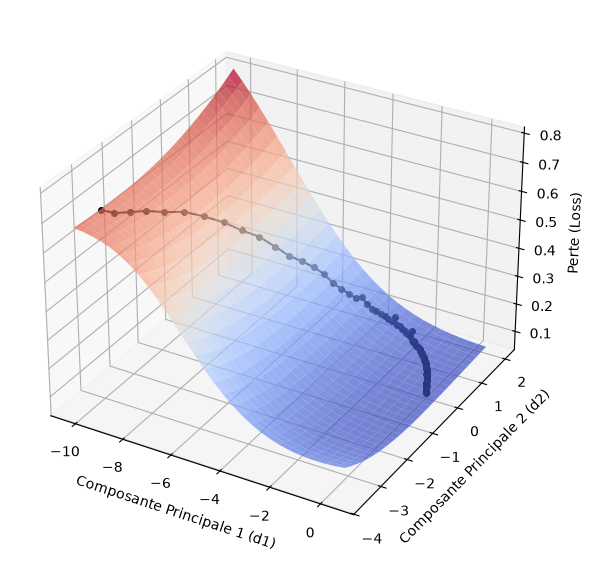
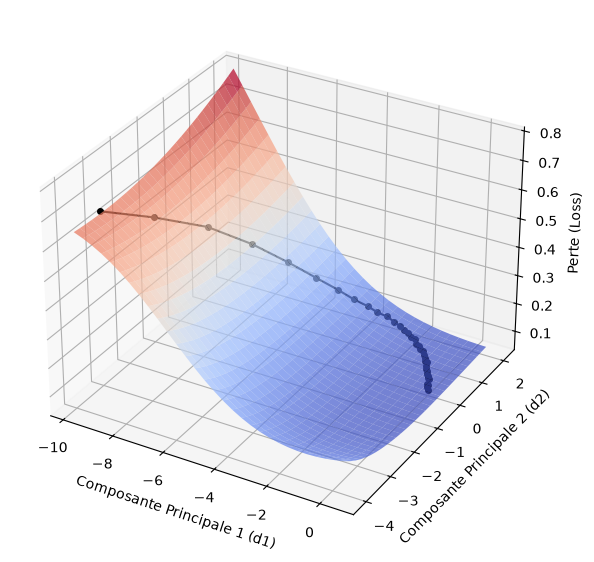
final final

diff --git a/README.md b/README.md
@@ -236,45 +236,77 @@ python3 predict.py path/to/any_dataset.csv
 ### Model Training Execution (`train.py`)
 
 ```text
-$ python3 train.py -o Adam -e 50 -s 10 -lR 0.01
+$ python3 train.py -l 32 16 -o Adam -s
 Successfully loaded data in data/training_data.csv
 Successfully loaded data in data/testing_data.csv
-Epoch 1: Training loss = 0.53218571 | Validation loss = 0.15417870
-Epoch 2: Training loss = 0.12117479 | Validation loss = 0.06284457
-Epoch 3: Training loss = 0.08656392 | Validation loss = 0.09342783
-Epoch 4: Training loss = 0.07894161 | Validation loss = 0.07438113
-Epoch 5: Training loss = 0.07239458 | Validation loss = 0.05860561
-Epoch 6: Training loss = 0.06764356 | Validation loss = 0.05787028
-Epoch 7: Training loss = 0.07538802 | Validation loss = 0.04441908
-Epoch 8: Training loss = 0.07494354 | Validation loss = 0.06011735
-Epoch 9: Training loss = 0.06347635 | Validation loss = 0.25850142
-Epoch 10: Training loss = 0.06515142 | Validation loss = 0.19916024
-Epoch 11: Training loss = 0.06039511 | Validation loss = 0.08689131
-Epoch 12: Training loss = 0.07120848 | Validation loss = 0.04860856
-Epoch 13: Training loss = 0.07917582 | Validation loss = 0.21246300
-Epoch 14: Training loss = 0.07266126 | Validation loss = 0.20677901
-Epoch 15: Training loss = 0.05801347 | Validation loss = 0.09039113
-Epoch 16: Training loss = 0.05927256 | Validation loss = 0.18160378
-Epoch 17: Training loss = 0.05709562 | Validation loss = 0.14260090
-Epoch 18: Training loss = 0.05863500 | Validation loss = 0.20152522
+
+==================================================
+              TRAINING CONFIGURATION              
+==================================================
+  • Architecture    : 30 -> 32 -> 16 -> 2
+  • Activation      : sigmoid
+  • Optimizer       : Adam
+  • Learning Rate   : 0.001
+  • Batch Size      : 8
+  • Epochs          : 84
+  • Early Stopping  : Active (10 epochs)
+==================================================
+
+Epoch 1: Training loss = 0.69911511 | Validation loss = 0.60439975
+Epoch 2: Training loss = 0.60479377 | Validation loss = 0.49778310
+Epoch 3: Training loss = 0.51567713 | Validation loss = 0.40568239
+Epoch 4: Training loss = 0.41704107 | Validation loss = 0.31848358
+Epoch 5: Training loss = 0.32724802 | Validation loss = 0.25091454
+Epoch 6: Training loss = 0.25776963 | Validation loss = 0.19874236
+Epoch 7: Training loss = 0.20764028 | Validation loss = 0.16607827
+Epoch 8: Training loss = 0.17067072 | Validation loss = 0.14355692
+Epoch 9: Training loss = 0.14503694 | Validation loss = 0.12521019
+Epoch 10: Training loss = 0.12669295 | Validation loss = 0.11080716
+Epoch 11: Training loss = 0.11362687 | Validation loss = 0.10234483
+Epoch 12: Training loss = 0.10216269 | Validation loss = 0.09634969
+Epoch 13: Training loss = 0.09447541 | Validation loss = 0.08943973
+Epoch 14: Training loss = 0.08783907 | Validation loss = 0.08560304
+Epoch 15: Training loss = 0.08392423 | Validation loss = 0.08567876
+Epoch 16: Training loss = 0.07942964 | Validation loss = 0.08154868
+Epoch 17: Training loss = 0.07666506 | Validation loss = 0.07920029
+Epoch 18: Training loss = 0.07294234 | Validation loss = 0.07785241
+Epoch 19: Training loss = 0.07060039 | Validation loss = 0.07431325
+Epoch 20: Training loss = 0.06809179 | Validation loss = 0.07379666
+Epoch 21: Training loss = 0.06667174 | Validation loss = 0.07139236
+Epoch 22: Training loss = 0.06527077 | Validation loss = 0.07583534
+Epoch 23: Training loss = 0.06362491 | Validation loss = 0.07168299
+Epoch 24: Training loss = 0.06257514 | Validation loss = 0.07203743
+Epoch 25: Training loss = 0.06312943 | Validation loss = 0.06820544
+Epoch 26: Training loss = 0.06065634 | Validation loss = 0.07707474
+Epoch 27: Training loss = 0.06013281 | Validation loss = 0.07821340
+Epoch 28: Training loss = 0.06135813 | Validation loss = 0.07262460
+Epoch 29: Training loss = 0.05827274 | Validation loss = 0.07378880
+Epoch 30: Training loss = 0.05695599 | Validation loss = 0.07260518
+Epoch 31: Training loss = 0.05647357 | Validation loss = 0.07332870
+Epoch 32: Training loss = 0.05782145 | Validation loss = 0.07065163
+Epoch 33: Training loss = 0.05533206 | Validation loss = 0.08461256
+Epoch 34: Training loss = 0.05501747 | Validation loss = 0.07539299
+Epoch 35: Training loss = 0.05591688 | Validation loss = 0.07595274
+Epoch 36: Training loss = 0.05389456 | Validation loss = 0.08348351
 Model saved succesfully in data/model_weights.npz
 ```
-*Note: Training terminated automatically at epoch 18 due to Early Stopping regularization after validation loss reached its optimum at epoch 7.*
+*Note: Training terminated automatically at epoch 36 due to Early Stopping regularization after validation loss reached its optimum at epoch 25.*
 
 ### Evaluation & Confusion Matrix (`predict.py`)
 
 ```text
 $ python3 predict.py
-Binary cross-entropy loss: 0.11147211665439706
+Successfully loaded data in data/testing_data.csv
+Binary cross-entropy loss: 0.0875803148682895
 
                   Predicted Positives  Predicted Negatives
 Actual Positives                   26                    0
 Actual Negatives                    4                   84
 
-Accuracy: 96.49%
-Precision: 86.67%
-Recall: 100.00%
-F1 Score: 92.86%
+Accuracy  : 96.49%
+Precision : 86.67%
+Recall    : 100.00%
+F1 Score  : 92.86%
 ```
 
 > **Clinical Relevance**: In medical diagnostics (cancer detection), **Recall is the critical metric**. A Recall of **100.00%** indicates zero false negatives (all malignant cases correctly identified).
